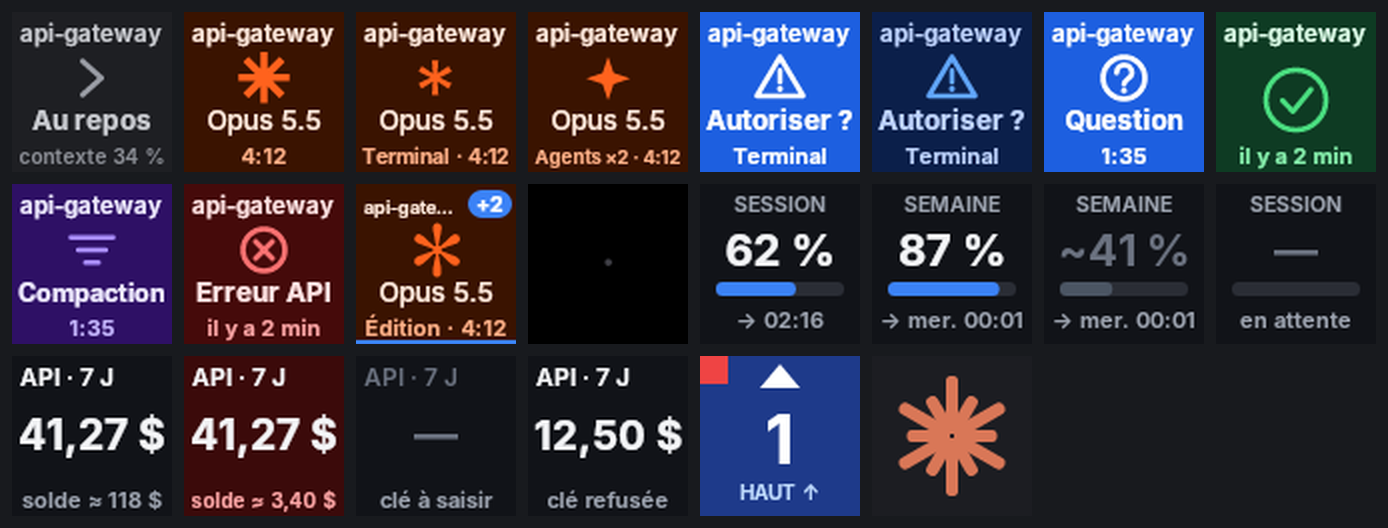
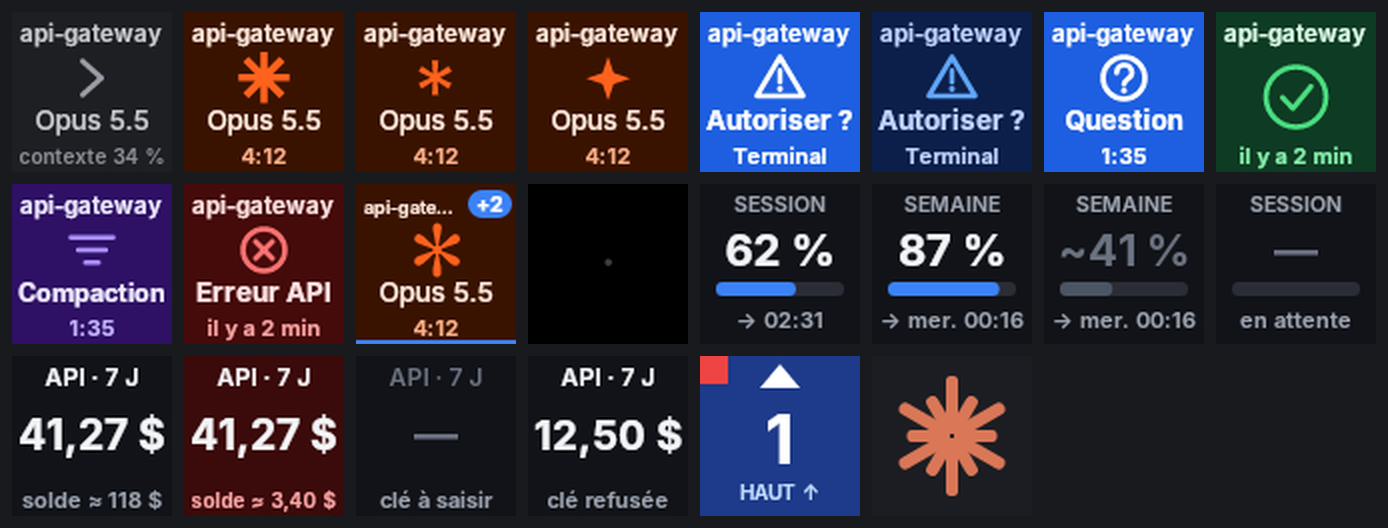
Repos : modèle et contexte ; titres centrés ; coche recentrée (v0.4.1)
- Session au travail : plus d'activité, seulement le chrono.
- Au repos : le modèle (même style qu'au travail) et le remplissage du
  contexte sur la ligne du bas ; « Au repos » n'est plus affiché.
- Contexte aussi lu dans le transcript (jetons d'entrée + cache de la
  dernière réponse) pour l'extension VS Code ; taille de fenêtre apprise
  via la status line, sinon supposée et affichée « ≈ ».
- Nom de session centré s'il tient dans la largeur, sinon à gauche.
- Coche « terminé » à égale distance du titre et de la ligne du bas.

Claude-Session: https://claude.ai/code/session_01Fx8ktu9DfaPpGyN7FCRNbi

diff --git a/src/ClaudeDeck.Core/Engine/SessionTracker.cs b/src/ClaudeDeck.Core/Engine/SessionTracker.cs
@@ -13,6 +13,8 @@ public sealed class SessionTracker
     private readonly object _gate = new();
     private readonly Dictionary<string, Session> _sessions = new(StringComparer.Ordinal);
     private readonly TimeProvider _time;
+    /// <summary>Taille de fenêtre de contexte observée par modèle (status line).</summary>
+    private readonly Dictionary<string, long> _windowByModel = new(StringComparer.Ordinal);
 
     /// <summary>Outils qui, par nature, attendent une réponse de l'utilisateur.</summary>
     private static readonly HashSet<string> UserFacingTools = new(StringComparer.Ordinal)
@@ -215,27 +217,39 @@ public sealed class SessionTracker
             s.ProjectDir = ws?.Str("project_dir") ?? s.ProjectDir;
             s.SessionName = payload.Str("session_name") ?? s.SessionName;
             s.Model = payload.Obj("model")?.Str("display_name") ?? s.Model;
-            s.ContextUsedPercent = payload.Obj("context_window")?.Num("used_percentage") ?? s.ContextUsedPercent;
+            var ctxWindow = payload.Obj("context_window");
+            if (ctxWindow?.Num("used_percentage") is { } pct)
+            {
+                s.ContextUsedPercent = pct;
+                s.ContextEstimated = false;
+                s.ContextFromStatusLineAt = now;
+            }
+            // Mémorise la taille de fenêtre par modèle, pour les sessions sans status line (extension VS Code).
+            if (ctxWindow?.Num("context_window_size") is { } size && size > 0 &&
+                ModelName.Format(payload.Obj("model")?.Str("id")) is { } key)
+                _windowByModel[key] = (long)size;
             s.CostUsd = payload.Obj("cost")?.Num("total_cost_usd") ?? s.CostUsd;
         }
         Changed?.Invoke();
     }
 
     /// <summary>
-    /// Met à jour le modèle des sessions à partir de leur transcript : au plus toutes les 15 s par session au travail,
-    /// et dès que possible pour une session dont le modèle est inconnu. La lecture du fichier se fait hors verrou.
+    /// Met à jour modèle et remplissage du contexte à partir des transcripts (seule source pour l'extension VS Code) :
+    /// après chaque nouvel événement (au plus toutes les 4 s), et toutes les 15 s pendant le travail.
+    /// La lecture des fichiers se fait hors verrou.
     /// </summary>
-    public void RefreshModelsFromTranscripts(Func<string, string?> readModelId)
+    public void RefreshFromTranscripts(Func<string, TranscriptInfo?> read)
     {
         var now = _time.GetUtcNow();
+        var minGap = TimeSpan.FromSeconds(4);
         List<(string Id, string Path)> due;
         lock (_gate)
         {
             due = _sessions.Values
                 .Where(s => s.TranscriptPath is not null)
-                .Where(s => s.Model is null
-                    ? s.ModelProbedAt is null || now - s.ModelProbedAt > TimeSpan.FromSeconds(4)
-                    : s.State is SessionState.Working && (s.ModelProbedAt is null || now - s.ModelProbedAt > TimeSpan.FromSeconds(15)))
+                .Where(s => s.ModelProbedAt is null
+                    || (now - s.ModelProbedAt > minGap && (s.Model is null || s.LastEventAt > s.ModelProbedAt))
+                    || (s.State is SessionState.Working && now - s.ModelProbedAt > TimeSpan.FromSeconds(15)))
                 .Select(s => (s.Id, s.TranscriptPath!))
                 .ToList();
             foreach (var (id, _) in due) _sessions[id].ModelProbedAt = now;
@@ -244,16 +258,34 @@ public sealed class SessionTracker
         var changed = false;
         foreach (var (id, path) in due)
         {
-            string? model;
-            try { model = ModelName.Format(readModelId(path)); }
+            TranscriptInfo? info;
+            try { info = read(path); }
             catch { continue; }
-            if (model is null) continue;
+            if (info is null) continue;
+            var model = ModelName.Format(info.ModelId);
             lock (_gate)
             {
-                if (_sessions.TryGetValue(id, out var s) && s.Model != model)
+                if (!_sessions.TryGetValue(id, out var s)) continue;
+                if (model is not null && s.Model != model)
                 {
                     s.Model = model;
                     changed = true;
+                }
+
+                // La status line (CLI) fait foi tant qu'elle est récente ; sinon, estimation depuis le transcript.
+                var statusLineFresh = s.ContextFromStatusLineAt is { } at && now - at < TimeSpan.FromMinutes(2);
+                if (!statusLineFresh && info.ContextTokens is { } tokens && tokens > 0)
+                {
+                    var key = model ?? s.Model;
+                    var known = key is not null && _windowByModel.TryGetValue(key, out var w) ? w : (long?)null;
+                    var window = known ?? (tokens > 200_000 ? 1_000_000 : 200_000);
+                    var pct = Math.Min(100.0, tokens * 100.0 / window);
+                    if (s.ContextUsedPercent != pct || s.ContextEstimated != (known is null))
+                    {
+                        s.ContextUsedPercent = pct;
+                        s.ContextEstimated = known is null;
+                        changed = true;
+                    }
                 }
             }
         }

diff --git a/src/ClaudeDeck.Core/Engine/TranscriptModelReader.cs b/src/ClaudeDeck.Core/Engine/TranscriptModelReader.cs
@@ -1,11 +1,17 @@
+using System.Globalization;
 using System.Text;
 using System.Text.RegularExpressions;
 
 namespace ClaudeDeck.Core.Engine;
 
+/// <summary>Ce que l'on sait de la dernière réponse de l'agent principal.</summary>
+/// <param name="ModelId">Identifiant du modèle (« claude-opus-5-5 »), ou null.</param>
+/// <param name="ContextTokens">Jetons d'entrée de cette réponse (entrée + cache créé + cache lu) = remplissage du contexte.</param>
+public sealed record TranscriptInfo(string? ModelId, long? ContextTokens);
+
 /// <summary>
-/// Retrouve le dernier modèle utilisé dans un transcript Claude Code (JSONL) : chaque réponse de l'assistant porte
-/// <c>"message": { "model": "claude-…" }</c>. Seule la fin du fichier est lue, en partage avec Claude Code qui l'écrit.
+/// Lit la fin d'un transcript Claude Code (JSONL) : chaque réponse de l'assistant porte
+/// <c>"message": { "model": "claude-…", "usage": { … } }</c>. Le fichier est ouvert en partage avec Claude Code qui l'écrit.
 /// </summary>
 public static partial class TranscriptModelReader
 {
@@ -14,21 +20,29 @@ public static partial class TranscriptModelReader
     [GeneratedRegex("\"model\"\\s*:\\s*\"(?<m>[^\"<][^\"]*)\"")]
     private static partial Regex ModelField();
 
-    public static string? LastModel(string path)
+    [GeneratedRegex("\"(?<k>input_tokens|cache_creation_input_tokens|cache_read_input_tokens)\"\\s*:\\s*(?<v>\\d+)")]
+    private static partial Regex UsageField();
+
+    public static string? LastModel(string path) => Read(path)?.ModelId;
+
+    public static TranscriptInfo? Read(string path)
     {
         if (!File.Exists(path)) return null;
-        using var fs = new FileStream(path, FileMode.Open, FileAccess.Read, FileShare.ReadWrite | FileShare.Delete);
-        var start = Math.Max(0, fs.Length - TailBytes);
-        fs.Seek(start, SeekOrigin.Begin);
-        var buffer = new byte[fs.Length - start];
-        var read = 0;
-        while (read < buffer.Length)
+        string text;
+        using (var fs = new FileStream(path, FileMode.Open, FileAccess.Read, FileShare.ReadWrite | FileShare.Delete))
         {
-            var n = fs.Read(buffer, read, buffer.Length - read);
-            if (n == 0) break;
-            read += n;
+            var start = Math.Max(0, fs.Length - TailBytes);
+            fs.Seek(start, SeekOrigin.Begin);
+            var buffer = new byte[fs.Length - start];
+            var read = 0;
+            while (read < buffer.Length)
+            {
+                var n = fs.Read(buffer, read, buffer.Length - read);
+                if (n == 0) break;
+                read += n;
+            }
+            text = Encoding.UTF8.GetString(buffer, 0, read);
         }
-        var text = Encoding.UTF8.GetString(buffer, 0, read);
 
         // De la fin vers le début : la dernière réponse de l'agent principal (les sous-agents, marqués
         // « isSidechain », peuvent utiliser un autre modèle ; les messages synthétiques portent « <synthetic> »).
@@ -38,12 +52,35 @@ public static partial class TranscriptModelReader
             var line = lines[i];
             if (!line.Contains("\"assistant\"", StringComparison.Ordinal)) continue;
             if (line.Contains("\"isSidechain\":true", StringComparison.Ordinal)) continue;
+
+            string? model = null;
             foreach (Match m in ModelField().Matches(line))
             {
                 var value = m.Groups["m"].Value;
-                if (value.Contains("claude", StringComparison.OrdinalIgnoreCase)) return value;
+                if (value.Contains("claude", StringComparison.OrdinalIgnoreCase))
+                {
+                    model = value;
+                    break;
+                }
             }
+            if (model is null) continue;
+
+            // Premier bloc « usage » de la ligne (celui du message ; on ne compte chaque champ qu'une fois).
+            var usageAt = line.IndexOf("\"usage\"", StringComparison.Ordinal);
+            long? tokens = null;
+            if (usageAt >= 0)
+            {
+                var seen = new HashSet<string>();
+                long sum = 0;
+                foreach (Match u in UsageField().Matches(line, usageAt))
+                {
+                    if (!seen.Add(u.Groups["k"].Value)) break;
+                    sum += long.Parse(u.Groups["v"].Value, CultureInfo.InvariantCulture);
+                }
+                if (seen.Count > 0) tokens = sum;
+            }
+            return new TranscriptInfo(model, tokens);
         }
-        return null;
+        return new TranscriptInfo(null, null);
     }
 }

diff --git a/tests/ClaudeDeck.Tests/SessionTrackerTests.cs b/tests/ClaudeDeck.Tests/SessionTrackerTests.cs
@@ -202,20 +202,35 @@ public class TranscriptModelTests
             [
                 """{"type":"user","message":{"role":"user","content":"x"}}""",
                 """{"type":"assistant","message":{"model":"claude-sonnet-5-5","content":[]}}""",
-                """{"type":"assistant","message":{"model":"claude-opus-5-5","content":[{"type":"tool_use","input":{"model":"haiku"}}]}}""",
+                """{"type":"assistant","message":{"model":"claude-opus-5-5","content":[{"type":"tool_use","input":{"model":"haiku"}}],"usage":{"input_tokens":2,"cache_creation_input_tokens":1000,"cache_read_input_tokens":49000,"output_tokens":300}}}""",
                 """{"type":"assistant","isSidechain":true,"message":{"model":"claude-haiku-4-5-20251001","content":[]}}""",
                 """{"type":"assistant","message":{"model":"<synthetic>","content":[]}}""",
                 """{"type":"user","message":{"role":"user","content":"y"}}""",
             ]);
             Assert.Equal("claude-opus-5-5", TranscriptModelReader.LastModel(path));
+            Assert.Equal(50_002, TranscriptModelReader.Read(path)!.ContextTokens);
             Assert.Null(TranscriptModelReader.LastModel(path + ".absent"));
 
             var time = new FakeTime();
             var t = new SessionTracker(time);
             t.HandleHook(J.Hook("a", "UserPromptSubmit", new { transcript_path = path }));
             Assert.Null(t.Snapshot()[0].Model);
-            t.RefreshModelsFromTranscripts(TranscriptModelReader.LastModel);
-            Assert.Equal("Opus 5.5", t.Snapshot()[0].Model);
+            t.RefreshFromTranscripts(TranscriptModelReader.Read);
+            var s = t.Snapshot()[0];
+            Assert.Equal("Opus 5.5", s.Model);
+            Assert.Equal(25.001, s.ContextUsedPercent!.Value, 3); // fenêtre supposée de 200 000
+            Assert.True(s.ContextEstimated);
+
+            // Une status line a révélé une fenêtre de 1 M pour ce modèle : plus d'estimation.
+            t.HandleStatusLine(J.E(new { session_id = "b", model = new { id = "claude-opus-5-5[1m]", display_name = "Opus 5.5" },
+                context_window = new { used_percentage = 3, context_window_size = 1_000_000 } }));
+            time.Advance(TimeSpan.FromSeconds(5));
+            t.HandleHook(J.Hook("a", "Stop"));
+            time.Advance(TimeSpan.FromSeconds(5));
+            t.RefreshFromTranscripts(TranscriptModelReader.Read);
+            s = t.Snapshot().Single(x => x.Id == "a");
+            Assert.Equal(5.0002, s.ContextUsedPercent!.Value, 3);
+            Assert.False(s.ContextEstimated);
         }
         finally
         {

diff --git a/src/ClaudeDeck.Core/Rendering/KeyViewBuilder.cs b/src/ClaudeDeck.Core/Rendering/KeyViewBuilder.cs
@@ -69,7 +69,7 @@ public sealed class KeyViewBuilder
                     // Le modèle (graisse normale) pendant tout le travail ; l'activité et le chrono en dessous.
                     Main = s.Model ?? "Claude",
                     MainRegular = true,
-                    Sub = WorkingSub(s, now),
+                    Sub = s.TurnStartedAt is { } t ? Duration(now - t) : null,
                 },
                 SessionState.Waiting => new KeyView
                 {
@@ -103,8 +103,9 @@ public sealed class KeyViewBuilder
                 _ => new KeyView
                 {
                     Background = C.IdleBg, Foreground = C.IdleFg, Accent = C.IdleAccent, Muted = C.IdleMuted,
-                    Title = title, Icon = KeyIcon.Prompt, Main = "Au repos",
-                    Sub = s.ContextUsedPercent is { } ctx ? $"contexte {ctx:0} %" : s.Model,
+                    Title = title, Icon = KeyIcon.Prompt,
+                    Main = s.Model ?? "Claude", MainRegular = true,
+                    Sub = s.ContextUsedPercent is { } ctx ? $"contexte {(s.ContextEstimated ? "≈ " : "")}{ctx:0} %" : null,
                 },
             };
         }
@@ -119,22 +120,6 @@ public sealed class KeyViewBuilder
             };
         }
         return view;
-    }
-
-    /// <summary>Ligne du bas d'une session au travail : « Terminal · 4:12 », « Agents ×2 · 0:35 », ou le seul chrono.</summary>
-    private static string? WorkingSub(SessionSnapshot s, DateTimeOffset now)
-    {
-        string? activity = null;
-        if (s.CurrentTool is { } tool) activity = ToolLabel(tool);
-        else if (s.ActiveSubagents > 0) activity = $"Agents ×{s.ActiveSubagents}";
-        var chrono = s.TurnStartedAt is { } t ? Duration(now - t) : null;
-        return (activity, chrono) switch
-        {
-            (null, null) => null,
-            (null, _) => chrono,
-            (_, null) => activity,
-            _ => $"{activity} · {chrono}",
-        };
     }
 
     /// <summary>Nom d'outil court et lisible.</summary>

diff --git a/src/ClaudeDeck.Core/Rendering/KeyRenderer.cs b/src/ClaudeDeck.Core/Rendering/KeyRenderer.cs
@@ -67,7 +67,13 @@ public sealed class KeyRenderer : IDisposable
     private void DrawIconLayout(SKCanvas c, KeyView v)
     {
         var titleRight = v.Badge is null ? 76f : 56f;
-        if (v.Title is { } t) DrawText(c, t, _semi, 12f, 9f, 4f, titleRight, 15f, v.Foreground, SKTextAlign.Left);
+        if (v.Title is { } t)
+        {
+            // Centré s'il tient à taille normale, sinon aligné à gauche (réduit puis tronqué si besoin).
+            using var probe = new SKFont(_semi, 12f);
+            var fits = probe.MeasureText(t) <= titleRight - 4f;
+            DrawText(c, t, _semi, 12f, 9f, 4f, titleRight, 15f, v.Foreground, fits ? SKTextAlign.Center : SKTextAlign.Left);
+        }
 
         var mainFace = v.MainRegular ? _medium : _bold;
         if (v.IconSprite is { } sprite)
@@ -77,8 +83,9 @@ public sealed class KeyRenderer : IDisposable
         }
         else if (v.Icon != KeyIcon.None && v.Main is null)
         {
-            // Icône seule (ex. « terminé ») : plus grande, centrée entre le titre et la ligne du bas.
-            DrawIcon(c, v.Icon, 40f, 44f, 15f, v.Accent, v.SpinnerPhase);
+            // Icône seule (ex. « terminé ») : plus grande, à égale distance du titre (bas des lettres ≈ 18 px)
+            // et de la ligne du bas (haut des lettres ≈ 67 px).
+            DrawIcon(c, v.Icon, 40f, 42.5f, 15f, v.Accent, v.SpinnerPhase);
         }
         else if (v.Icon != KeyIcon.None)
         {

diff --git a/src/ClaudeDeck.Core/Model/Session.cs b/src/ClaudeDeck.Core/Model/Session.cs
@@ -60,6 +60,10 @@ public sealed class Session
 
     public int ActiveSubagents { get; set; }
     public double? ContextUsedPercent { get; set; }
+    /// <summary>Le % de contexte est estimé (taille de fenêtre supposée) et non fourni par la status line.</summary>
+    public bool ContextEstimated { get; set; }
+    /// <summary>Dernière valeur de contexte fournie par la status line (prioritaire sur le transcript).</summary>
+    public DateTimeOffset? ContextFromStatusLineAt { get; set; }
     public double? CostUsd { get; set; }
 
     public DateTimeOffset LastEventAt { get; set; }
@@ -90,7 +94,7 @@ public sealed class Session
 
     public SessionSnapshot Snapshot() => new(
         Id, DisplayName, Cwd, SessionName, Model, State, StateSince, WaitReason, CurrentTool, LastTool,
-        TurnStartedAt, LastTurnDuration, ActiveSubagents, ContextUsedPercent, CostUsd, LastEventAt, Client);
+        TurnStartedAt, LastTurnDuration, ActiveSubagents, ContextUsedPercent, CostUsd, LastEventAt, Client, ContextEstimated);
 }
 
 /// <summary>Copie immuable d'une session, partagée avec le rendu et l'API web.</summary>
@@ -111,4 +115,5 @@ public sealed record SessionSnapshot(
     double? ContextUsedPercent,
     double? CostUsd,
     DateTimeOffset LastEventAt,
-    ClientProcess? Client);
+    ClientProcess? Client,
+    bool ContextEstimated = false);

diff --git a/tests/ClaudeDeck.Tests/RenderingTests.cs b/tests/ClaudeDeck.Tests/RenderingTests.cs
@@ -324,7 +324,7 @@ public class StyleTests
         var withTool = b.Session(S(SessionState.Working, "Bash"), Now, 0);
         Assert.Equal("Opus 5.5", withTool.Main);
         Assert.True(withTool.MainRegular);
-        Assert.Equal("Terminal · 30 s", withTool.Sub);
+        Assert.Equal("30 s", withTool.Sub); // l'activité n'est plus affichée
         Assert.Equal("Claude", b.Session(S(SessionState.Working, model: null), Now, 0).Main);
     }
 
@@ -335,8 +335,12 @@ public class StyleTests
         var done = b.Session(S(SessionState.Done), Now, 0);
         Assert.Null(done.Main);
         Assert.Equal(KeyIcon.Check, done.Icon);
-        var idle = b.Session(S(SessionState.Idle), Now, 0);
+        var idle = b.Session(S(SessionState.Idle) with { ContextUsedPercent = 34.4 }, Now, 0);
         Assert.Equal(KeyIcon.Prompt, idle.Icon);
+        Assert.Equal("Opus 5.5", idle.Main);
+        Assert.True(idle.MainRegular);
+        Assert.Equal("contexte 34 %", idle.Sub);
+        Assert.Equal("contexte ≈ 34 %", b.Session(S(SessionState.Idle) with { ContextUsedPercent = 34.4, ContextEstimated = true }, Now, 0).Sub);
         var bg = idle.Background;
         Assert.True(Math.Abs(bg.R - bg.B) <= 8 && Math.Abs(bg.R - bg.G) <= 8); // gris neutre
         using var r = new KeyRenderer();

diff --git a/src/ClaudeDeck.Core/Engine/DeckController.cs b/src/ClaudeDeck.Core/Engine/DeckController.cs
@@ -175,7 +175,7 @@ public sealed class DeckController : IDisposable
                 catch { return true; }
             });
             // Modèle réellement utilisé, lu dans le transcript (l'extension VS Code n'a pas de status line).
-            _sessions.RefreshModelsFromTranscripts(TranscriptModelReader.LastModel);
+            _sessions.RefreshFromTranscripts(TranscriptModelReader.Read);
         }
         catch (Exception ex)
         {

diff --git a/docs/SPEC.md b/docs/SPEC.md
@@ -76,7 +76,7 @@ affiche la status line préexistante de l'utilisateur (exécutée via Git Bash, 
 | `StopFailure` | → Erreur |
 | `PreCompact` / `PostCompact` | → Compaction / retour à Travaille ou Au repos |
 | `SubagentStart` / `SubagentStop` | compteur d'agents (≥ 0) |
-| `SessionStart.model`, `PostModelSwitch.to_model` | modèle affiché (« claude-opus-5-5 » → « Opus 5.5 ») ; aussi mis à jour par la status line (`model.display_name`) et par la lecture du transcript (`transcript_path`, dernière réponse de l'agent principal, toutes les 15 s au travail) — seule source pour l'extension VS Code |
+| `SessionStart.model`, `PostModelSwitch.to_model` | modèle affiché (« claude-opus-5-5 » → « Opus 5.5 ») ; aussi mis à jour par la status line (`model.display_name`) et par la lecture du transcript (`transcript_path`, dernière réponse de l'agent principal, après chaque événement et toutes les 15 s au travail) — seule source pour l'extension VS Code. Le transcript donne aussi le remplissage du contexte (jetons d'entrée + cache) ; la taille de fenêtre vient de la status line pour ce modèle si elle a été vue, sinon elle est supposée (200 000, ou 1 M au-delà) et le % est affiché « ≈ » |
 | `SessionEnd` | suppression |
 | appui sur la touche | Terminé/Erreur → Au repos |
 | maintenance (10 s) | Terminé/Erreur → Au repos après 30 min ; suppression si processus mort ou 12 h sans événement |

diff --git a/README.md b/README.md
@@ -23,8 +23,8 @@ Une session garde sa touche tant qu'elle reste affichée ; la pastille « +N » 
 
 | État | Couleur | Déclencheur (hooks Claude Code) |
 |---|---|---|
-| Au repos | gris, invite « > » | `SessionStart`, Échap (`Notification` idle) |
-| Travaille | orange très sombre, astérisque animé (2 s, déphasé d'une touche à l'autre), modèle (« Opus 5.5 »), outil en cours et durée du tour | `UserPromptSubmit`, `PreToolUse`, `PostToolUse` |
+| Au repos | gris, invite « > », modèle et remplissage du contexte (« ≈ » si estimé) | `SessionStart`, Échap (`Notification` idle) |
+| Travaille | orange très sombre, astérisque animé (2 s, déphasé d'une touche à l'autre), modèle (« Opus 5.5 ») et durée du tour | `UserPromptSubmit`, `PreToolUse`, `PostToolUse` |
 | **Autoriser ? / Question** | **bleu clignotant** | `PermissionRequest`, `Notification` (permission, elicitation), `AskUserQuestion` |
 | Terminé | vert, coche seule, « il y a 3 min » | `Stop` |
 | Compaction | violet | `PreCompact` → `PostCompact` |
